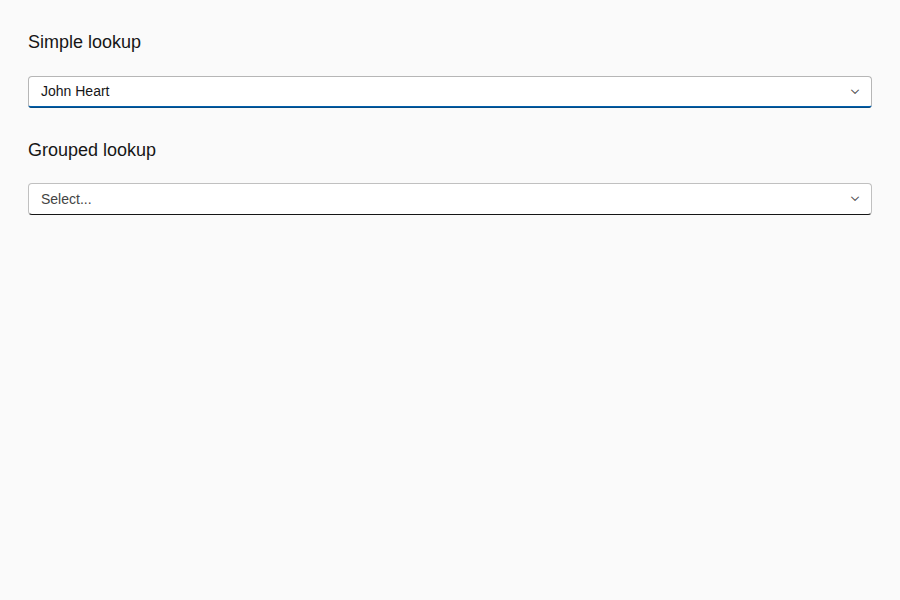
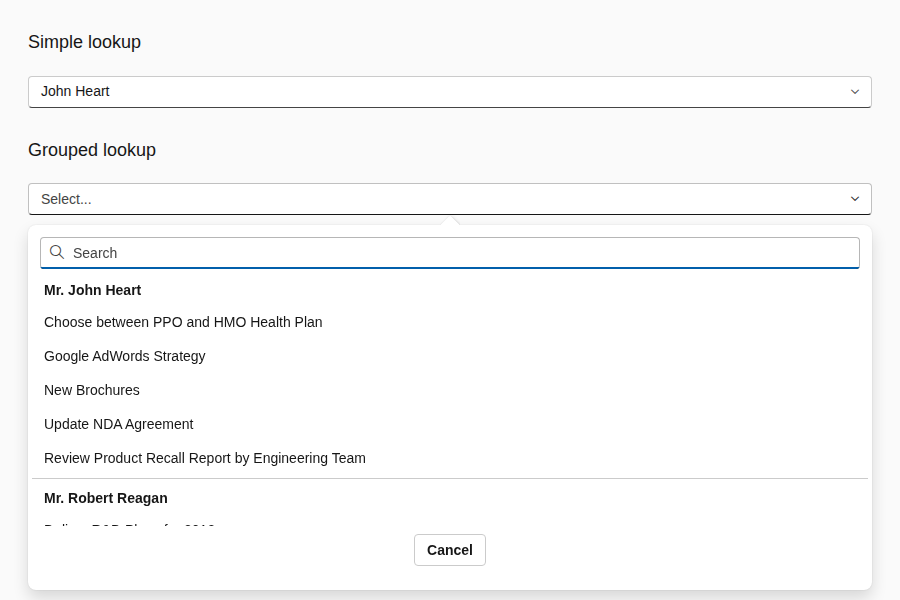
Demos: open each lookup and run Tabs Selection in React in the widget tests

diff --git a/apps/demos/testing/widgets/tabs/Selection.spec.ts b/apps/demos/testing/widgets/tabs/Selection.spec.ts
@@ -1,5 +1,6 @@
-import { test } from '@playwright/test';
-import { currentFramework, describeManualTest, testScreenshot } from '../../../utils/visual-tests/playwright/manual-test';
+import { expect, test } from '@playwright/test';
+import type { Page } from '@playwright/test';
+import { describeManualTest, testScreenshot } from '../../../utils/visual-tests/playwright/manual-test';
 
 const TABS_WRAPPER_CLASS = 'dx-tabs-wrapper';
 const TAB_CLASS = 'dx-tab';
@@ -8,18 +9,25 @@ const SELECTBOX_CLASS = 'dx-selectbox';
 const SELECTBOX_POPUP_WRAPPER_CLASS = 'dx-selectbox-popup-wrapper';
 const LIST_ITEM_CLASS = 'dx-list-item';
 
-describeManualTest('Tabs', 'Selection', { width: 900, height: 1200 }, () => {
-  // In React the MultiView sometimes stays on the previous employee while the tabs and the select
-  // box show the new one, whatever the test waits for.
-  test.skip(currentFramework === 'React', 'The React MultiView does not always follow the selected item');
+// In React the MultiView gets the new item a bit later and may not have started to slide when
+// the page looks settled.
+const expectEmployee = async (page: Page, name: string): Promise<void> => {
+  const photos = page.locator('.dx-multiview-item:not(.dx-multiview-item-hidden) .employee-photo');
 
+  await expect.poll(() => photos.evaluateAll((elements) => elements.map((element) => element.getAttribute('alt'))))
+    .toEqual([name]);
+};
+
+describeManualTest('Tabs', 'Selection', { width: 900, height: 1200 }, () => {
   test('Selection', async ({ page }) => {
     await page.locator(`.${TABS_WRAPPER_CLASS} .${TAB_CLASS}`).nth(1).click();
+    await expectEmployee(page, 'Olivia Peyton');
 
     await testScreenshot(page, 'tabs_second_item_selection.png');
 
     await page.locator(`.${SELECT_BOX_CONTAINER_CLASS} .${SELECTBOX_CLASS}`).nth(0).click();
     await page.locator(`.${SELECTBOX_POPUP_WRAPPER_CLASS} .${LIST_ITEM_CLASS}`).nth(2).click();
+    await expectEmployee(page, 'Robert Reagan');
 
     await testScreenshot(page, 'tabs_third_item_selection.png');
   });

diff --git a/apps/demos/testing/widgets/lookup/Lookup.spec.ts b/apps/demos/testing/widgets/lookup/Lookup.spec.ts
@@ -1,15 +1,22 @@
-import { test } from '@playwright/test';
+import { expect, test } from '@playwright/test';
 import { describeManualTest, testScreenshot } from '../../../utils/visual-tests/playwright/manual-test';
 
 const LOOKUP_CLASS = 'dx-lookup';
+const POPUP_CONTENT = '.dx-lookup-popup-wrapper .dx-overlay-content';
 
 describeManualTest('Lookup', 'Basics', { width: 900, height: 600 }, () => {
   test('Custom Lookup Appearance', async ({ page }) => {
+    const popups = page.locator(`${POPUP_CONTENT}:visible`);
+
     await page.locator(`.${LOOKUP_CLASS}`).nth(0).click();
 
-    // The popup of the first lookup covers the second one. TestCafe clicked the point anyway, which
-    // picked the popup item under it ("John Heart"), and the etalon shows that.
-    await page.locator(`.${LOOKUP_CLASS}`).nth(1).click({ force: true });
+    await testScreenshot(page, 'lookup_simple_popup.png');
+
+    // The popup covers the other lookup.
+    await page.keyboard.press('Escape');
+    await expect(popups).toHaveCount(0);
+
+    await page.locator(`.${LOOKUP_CLASS}`).nth(1).click();
 
     await testScreenshot(page, 'lookup_templates_custom_appearance.png');
   });
